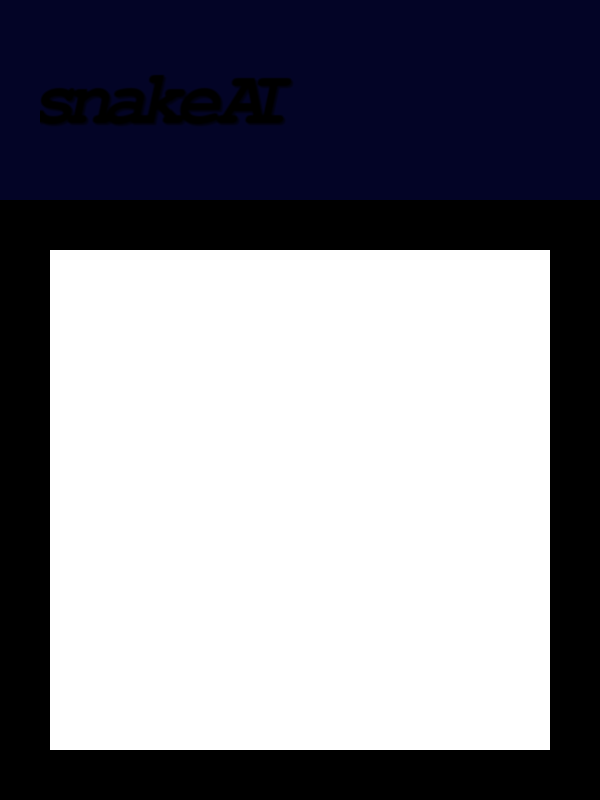
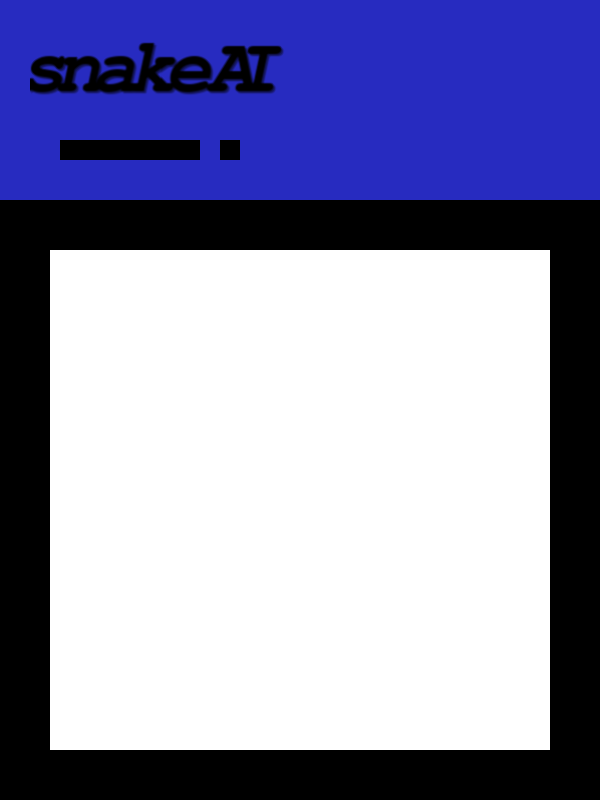
Added background and main screen setup.

Changed region(s): [[0.0, 0.0, 1.0, 0.25]]

diff --git a/snakeAIGame/src/snakeAIGame/snakeAIGameMain.java b/snakeAIGame/src/snakeAIGame/snakeAIGameMain.java
@@ -1,0 +1,27 @@
+package snakeAIGame;
+
+import java.awt.*;
+import javax.swing.*;
+
+import GUI.MainScreen;
+
+public class snakeAIGameMain {
+	// Getting the icon from assets
+	private static final String iconPath = System.getProperty("user.dir") + "/src/assets/icon.png";
+	private static final ImageIcon icon = new ImageIcon(iconPath);
+	
+	public static void main(String[] args) {
+		EventQueue.invokeLater(() -> 
+		{		
+			var screen = new MainScreen();
+			screen.setIconImage(icon.getImage());
+			screen.setTitle("snakeAI");
+			screen.setResizable(false);
+			screen.setDefaultCloseOperation(JFrame.EXIT_ON_CLOSE);
+			screen.setVisible(true);			
+		});
+	}
+
+}
+
+
